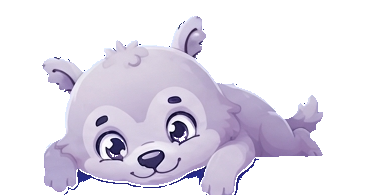
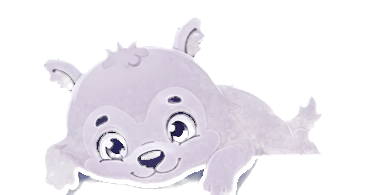
v1.215.0: фикс качества экрана входа — убрал синеватую обводку вокруг маскота (мягкий chroma-key с порогом по яркости + эрозия края вместо жёсткого порога, который оставлял кайму цвета неба и наоборот прогрызал тёмные контуры глаз/носа), убрал случайную вылезшую звёздочку рядом с цветами на балконе 

diff --git a/src/lib/changelog.ts b/src/lib/changelog.ts
@@ -2,6 +2,7 @@
 export type ChangelogEntry = { version: string; date: string; items: string[] }
 
 export const CHANGELOG: ChangelogEntry[] = [
+  { version: "1.214.0", date: "2026-07-11", items: ["экран входа/регистрации переделан 1-в-1 по референсу — фирменный маскот Ponoi свисает с карточки, пилюли-поля с иконками (юзернейм/email/пароль), градиентная синяя кнопка, \"Присоединяйся к своему миру\". Единственный экран, где сознательно ушли от Discord 1-в-1 — тут наоборот. Фон и маскот — реальные картинки (референс был готовым скриншотом-макетом целиком с текстом внутри; вырезал маскота с прозрачностью через чистый chroma-key по цвету неба и заменил область, где в макете была нарисована карточка, на подобранный по образцу градиент, иначе настоящая карточка накладывалась поверх нарисованной и было видно оба слоя сразу). Логика входа/регистрации не тронута."] },
   { version: "1.213.0", date: "2026-07-11", items: ["автопроверка обновлений для APK. Десктоп качает и ставит обновления сам (electron-updater), веб/PWA всегда грузит свежую версию (нет офлайн-кэша) — только у APK не было вообще ничего, обновлялся исключительно вручную. Теперь при запуске (только на реальном Android-APK, не в браузере) сверяется с последним GitHub Release", "если версия новее — баннер сверху с прямой ссылкой на .apk. Полностью тихая установка без Play Маркета невозможна (систему всё равно попросит подтвердить установку поверх старой), но сама проверка и ссылка теперь автоматические."] },
   { version: "1.212.0", date: "2026-07-11", items: ["мобильный интерфейс ближе к настоящему Discord (было — десктопные модалки/попапы сжаты под телефон). Настройки — полноэкранный список разделов карточками-группами вместо сдавленного в 78vw сайдбара", "тап по разделу открывает его на весь экран со стрелкой назад. Профиль — тап по своей панели снизу открывает полноэкранную карточку профиля (ProfileCard) напрямую, а не маленький попап MiniProfile, неудобный на тачскрине. Список ЛС — заголовок «Сообщения», поиск как пилюля с иконкой, круглая синяя кнопка «+», цвета вернули на Discord-тёмные (список бесед на телефоне ошибочно ушёл под цвета Telegram вместе с пузырями сообщений — сами пузыри сознательно оставлены как есть, это отдельная прошлая правка). Иконки серверов в рейле — красный бейджик с числом упоминаний (как в мобильном Discord), с той же анимацией «взрыва», что у иконки в трее", "для этого счётчики из lib/badge.ts стали реактивными (useBadgeCount)."] },
   { version: "1.211.0", date: "2026-07-11", items: ["последний фикс android-apk — секрета ANDROID_KEYSTORE_BASE64 в репозитории нет и не было (проверили в Settings -> Secrets), но шаг \"Check for release keystore secret\" всё равно считал его \"present\" из-за моей же ошибки в экранировании кавычек bash (буквальные \\\" внутри $(...) в YAML plain scalar не экранировали ничего, просто становились двумя символами \" — непустая строка, тест -n всегда true). Из-за этого писался мусорный пустой release.keystore и Gradle падал на подписи APK. Переписано без хитрого экранирования."] },
